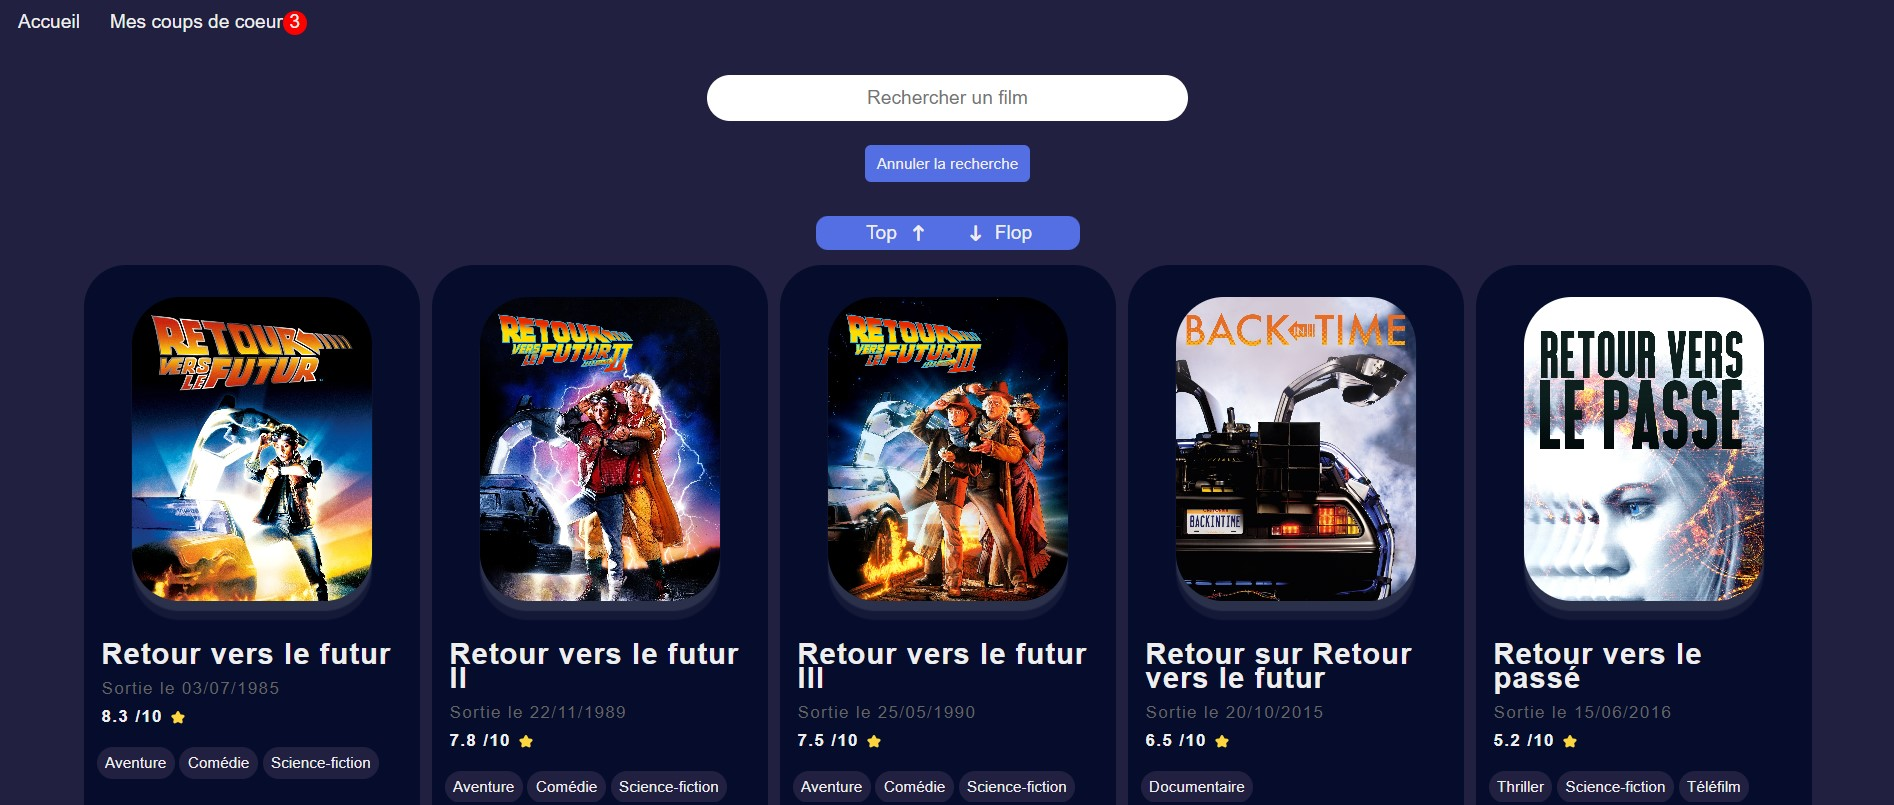
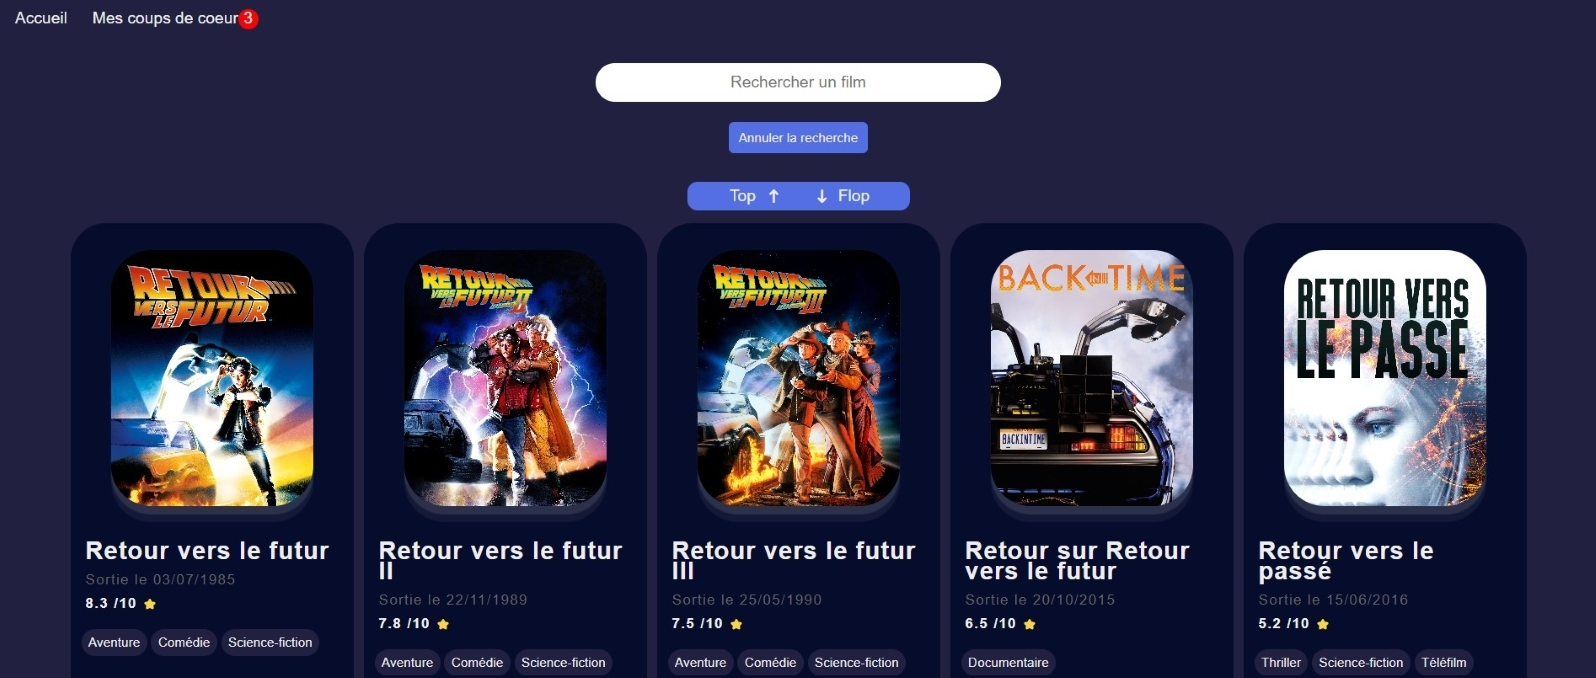
modification image

diff --git a/src/style/home.scss b/src/style/home.scss
@@ -131,7 +131,7 @@ section {
 }
 
 .image_projet {
-  width: 25%;
+  width: 30%;
   height: 350px;
   border-radius: 25px;
   margin-top: 20px;
